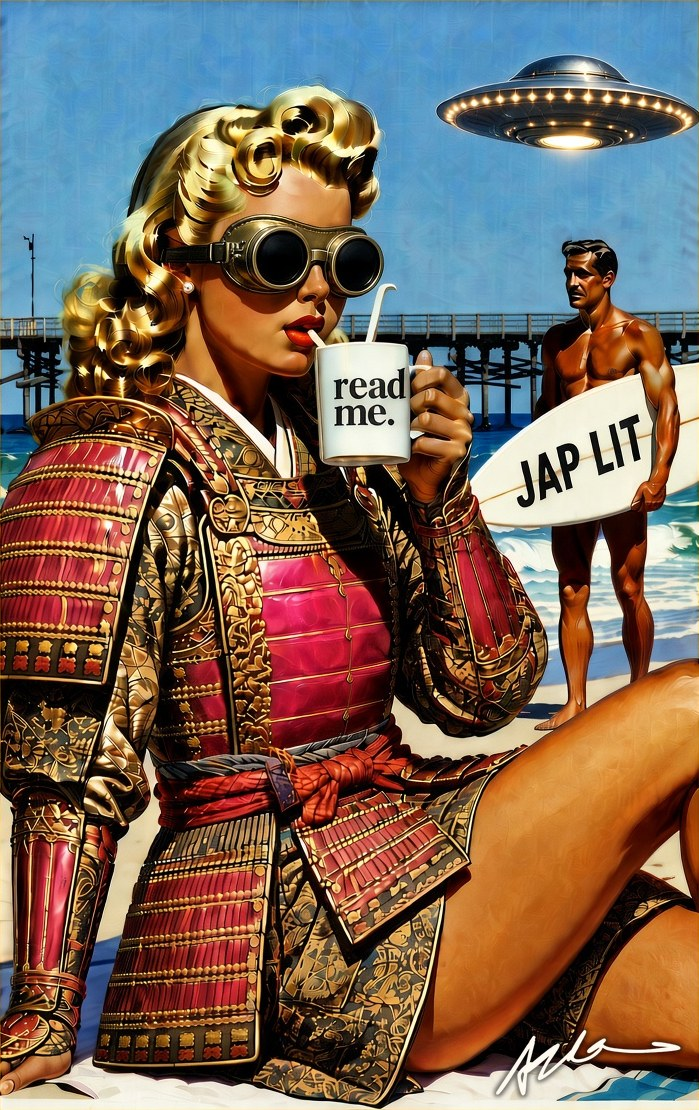
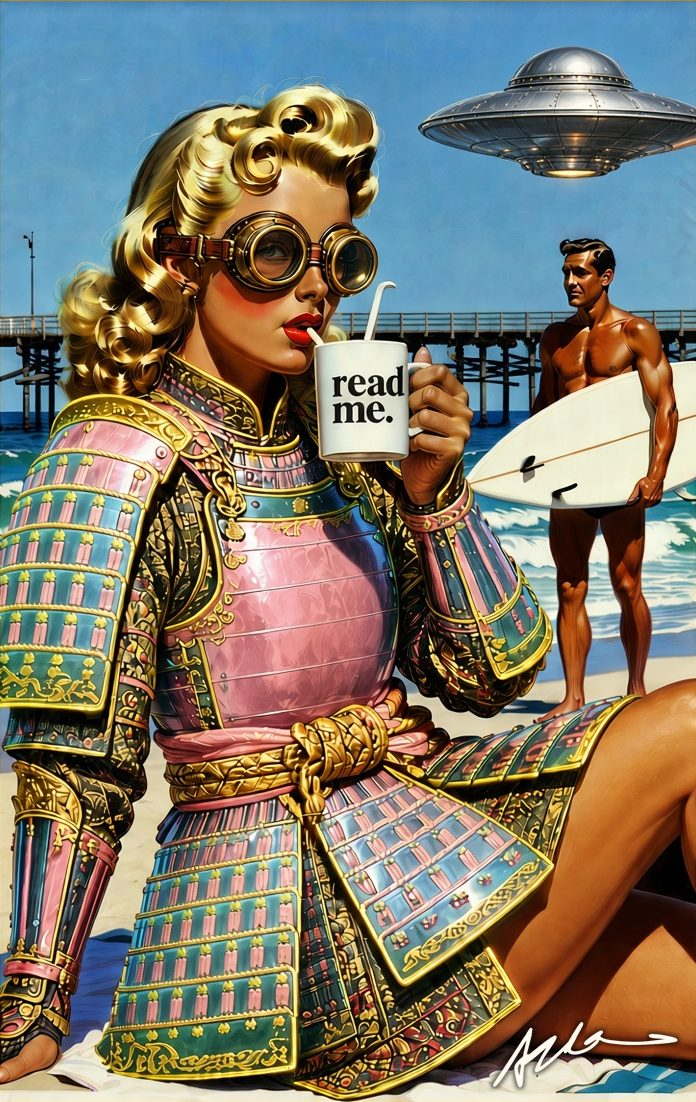
Weekly Reads: AE's new illustration (v2), panel crop with signature bottom right

diff --git a/index.html b/index.html
@@ -449,7 +449,7 @@
                 <hr class="wrp-rule" aria-hidden="true">
                 <div class="wrp-layout">
                     <figure class="wrp-art">
-                        <img src="weekly-reads-japanese-lit-panel.jpg" width="699" height="1110" loading="lazy" alt="Book &amp; Shores illustration: a pin-up woman in red samurai armor and aviator goggles sips from a read me. mug on the beach, a surfer and a UFO over the pier behind her, signed AE">
+                        <img src="weekly-reads-japanese-lit-panel.jpg?v=2" width="696" height="1102" loading="lazy" alt="Book &amp; Shores illustration: a pin-up woman in red samurai armor and aviator goggles sips from a read me. mug on the beach, a surfer and a UFO over the pier behind her, signed AE">
                     </figure>
                     <div class="wrp-grid" id="weekly-grid">
                     <div class="wrp-book">
